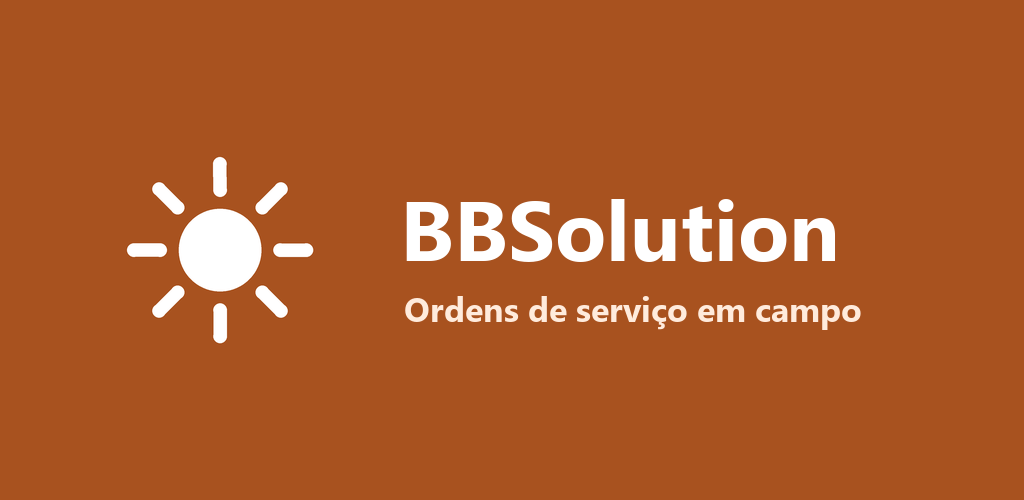
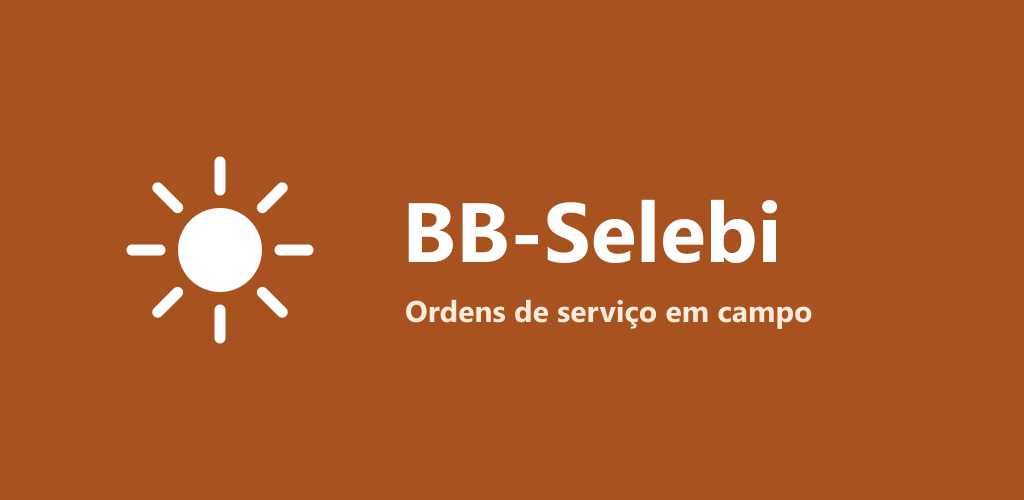
sss

diff --git a/app/src/test/java/br/com/selebi/app/funcionalidade/execucao/RoteiroTest.kt b/app/src/test/java/br/com/selebi/app/funcionalidade/execucao/RoteiroTest.kt
@@ -93,12 +93,12 @@ class RoteiroTest {
         fun resumo(envios: List<Envio>, online: Boolean, espera: EsperaEnvio?, fechado: Boolean) =
             Roteiro.resumoDaFila(envios, online, espera, fechado)
 
-        assertEquals("Tudo o que você fez nesta OS já está no BBSolution.", resumo(emptyList(), true, null, true))
+        assertEquals("Tudo o que você fez nesta OS já está no BB-Selebi.", resumo(emptyList(), true, null, true))
         assertTrue(resumo(listOf(envio("recusado")), true, null, true).startsWith("O servidor recusou"))
 
         // Sem sinal: no Android sobe com o app fechado; no iPhone só com ele aberto.
         assertTrue(resumo(listOf(envio()), false, null, true).endsWith("mesmo com o app fechado."))
-        assertTrue(resumo(listOf(envio()), false, null, false).endsWith("Abra o BBSolution quando tiver sinal."))
+        assertTrue(resumo(listOf(envio()), false, null, false).endsWith("Abra o BB-Selebi quando tiver sinal."))
         assertFalse(resumo(listOf(envio()), false, null, false).contains("app fechado"))
 
         // Internet ligada e fila parada: o servidor, com o número do erro.
@@ -107,11 +107,11 @@ class RoteiroTest {
             "O servidor está com problema (erro 500). Está tudo guardado aqui e o app tenta de novo sozinho.",
             resumo(listOf(envio()), true, servidor, true),
         )
-        assertTrue(resumo(listOf(envio()), true, servidor, false).endsWith("Deixe o BBSolution aberto."))
+        assertTrue(resumo(listOf(envio()), true, servidor, false).endsWith("Deixe o BB-Selebi aberto."))
         assertTrue(resumo(listOf(envio()), true, EsperaEnvio(MotivoEspera.SERVIDOR), true).startsWith("O servidor está com problema."))
 
         assertTrue(resumo(listOf(envio()), true, EsperaEnvio(MotivoEspera.SEM_SINAL), true).startsWith("O sinal está fraco"))
-        assertTrue(resumo(listOf(envio()), true, EsperaEnvio(MotivoEspera.APP_DESATUALIZADO, 426), true).startsWith("Esta versão do BBSolution está desatualizada"))
+        assertTrue(resumo(listOf(envio()), true, EsperaEnvio(MotivoEspera.APP_DESATUALIZADO, 426), true).startsWith("Esta versão do BB-Selebi está desatualizada"))
 
         // Subindo agora, sem espera.
         assertTrue(resumo(listOf(envio()), true, null, true).startsWith("Subindo."))

diff --git a/shared/src/commonMain/kotlin/br/com/selebi/app/funcionalidade/execucao/Roteiro.kt b/shared/src/commonMain/kotlin/br/com/selebi/app/funcionalidade/execucao/Roteiro.kt
@@ -117,23 +117,23 @@ object Roteiro {
     fun resumoDaFila(envios: List<Envio>, online: Boolean, espera: EsperaEnvio?, sobeComAppFechado: Boolean): String {
         val esperando = envios.count { !it.recusado }
         val guardado = "Está tudo guardado aqui"
-        val sozinho = if (sobeComAppFechado) "" else " Deixe o BBSolution aberto."
+        val sozinho = if (sobeComAppFechado) "" else " Deixe o BB-Selebi aberto."
         return when {
-            envios.isEmpty() -> "Tudo o que você fez nesta OS já está no BBSolution."
+            envios.isEmpty() -> "Tudo o que você fez nesta OS já está no BB-Selebi."
             esperando == 0 -> "O servidor recusou o que está abaixo. Veja o motivo e descarte."
             !online -> if (sobeComAppFechado) {
                 "Sem sinal agora. $guardado e sobe sozinho quando a conexão voltar — mesmo com o app fechado."
             } else {
-                "Sem sinal agora. $guardado e sobe quando a conexão voltar. Abra o BBSolution quando tiver sinal."
+                "Sem sinal agora. $guardado e sobe quando a conexão voltar. Abra o BB-Selebi quando tiver sinal."
             }
             espera?.motivo == MotivoEspera.APP_DESATUALIZADO ->
-                "Esta versão do BBSolution está desatualizada. Atualize o aplicativo na loja: $guardado e sobe depois da atualização."
+                "Esta versão do BB-Selebi está desatualizada. Atualize o aplicativo na loja: $guardado e sobe depois da atualização."
             espera?.motivo == MotivoEspera.SERVIDOR ->
                 "O servidor está com problema" + (espera.codigo?.let { " (erro $it)" } ?: "") +
                     ". $guardado e o app tenta de novo sozinho.$sozinho"
             espera?.motivo == MotivoEspera.SEM_SINAL ->
                 "O sinal está fraco e o envio não completou. $guardado e o app tenta de novo sozinho.$sozinho"
-            else -> if (sobeComAppFechado) "Subindo. Não precisa esperar com o app aberto." else "Subindo. Deixe o BBSolution aberto até terminar."
+            else -> if (sobeComAppFechado) "Subindo. Não precisa esperar com o app aberto." else "Subindo. Deixe o BB-Selebi aberto até terminar."
         }
     }
 

diff --git a/shared/src/commonMain/kotlin/br/com/selebi/app/funcionalidade/execucao/Fotos.kt b/shared/src/commonMain/kotlin/br/com/selebi/app/funcionalidade/execucao/Fotos.kt
@@ -266,7 +266,7 @@ fun VisorDeFoto(
                     ) {
                         Icon(Icons.Outlined.Videocam, contentDescription = null, modifier = Modifier.size(64.dp))
                         Text(
-                            "Vídeo gravado. Para assistir, abra a OS no site do BBSolution.",
+                            "Vídeo gravado. Para assistir, abra a OS no site do BB-Selebi.",
                             style = MaterialTheme.typography.bodyLarge,
                             textAlign = TextAlign.Center,
                             modifier = Modifier.padding(top = 12.dp),
@@ -293,7 +293,7 @@ fun VisorDeFoto(
                             style = MaterialTheme.typography.titleSmall,
                         )
                         Text(
-                            if (foto.pendente) "Só neste celular — sobe quando tiver sinal" else "Já está no BBSolution",
+                            if (foto.pendente) "Só neste celular — sobe quando tiver sinal" else "Já está no BB-Selebi",
                             style = MaterialTheme.typography.bodySmall,
                             color = Color.White.copy(alpha = 0.8f),
                         )

diff --git a/shared/src/commonMain/kotlin/br/com/selebi/app/funcionalidade/execucao/Passos.kt b/shared/src/commonMain/kotlin/br/com/selebi/app/funcionalidade/execucao/Passos.kt
@@ -758,11 +758,11 @@ fun ConteudoConcluida(estado: ExecucaoEstado, acoes: AcoesExecucao) {
                 TipoAviso.ERRO,
             )
             esperando > 0 -> Aviso(
-                if (estado.online) "Subindo para o BBSolution — pode guardar o celular." else "Está tudo guardado no celular e sobe sozinho quando o sinal voltar, mesmo com o app fechado.",
+                if (estado.online) "Subindo para o BB-Selebi — pode guardar o celular." else "Está tudo guardado no celular e sobe sozinho quando o sinal voltar, mesmo com o app fechado.",
                 TipoAviso.INFO,
                 titulo = if (estado.online) "Enviando" else "Sem sinal",
             )
-            else -> Aviso("Tudo enviado. O escritório já vê a OS concluída no site.", TipoAviso.INFO, titulo = "No BBSolution")
+            else -> Aviso("Tudo enviado. O escritório já vê a OS concluída no site.", TipoAviso.INFO, titulo = "No BB-Selebi")
         }
         estado.avisos.forEach { aviso ->
             Surface(color = c.sucessoFundo, contentColor = c.sobreSucesso, shape = MaterialTheme.shapes.medium, modifier = Modifier.fillMaxWidth()) {

diff --git a/shared/src/commonMain/kotlin/br/com/selebi/app/amostras/AmostrasExecucao.kt b/shared/src/commonMain/kotlin/br/com/selebi/app/amostras/AmostrasExecucao.kt
@@ -287,7 +287,7 @@ object AmostrasExecucao {
         anexos = listOf(foto("c1", "i1", 60 * 30), foto("c2", "i4", 60 * 26), foto("c9", null, 60 * 24, categoria = "assinatura")),
         relatorio = "/r/exemploDeLinkDoRelatorio0000000000",
         historico = listOf(
-            evento("h4", "esteira", "Projeto avançou na esteira", "para \"Documentação\"", "BBSolution", "sistema", agora.minusDays(1).withHour(16).withMinute(10)),
+            evento("h4", "esteira", "Projeto avançou na esteira", "para \"Documentação\"", "BB-Selebi", "sistema", agora.minusDays(1).withHour(16).withMinute(10)),
             evento("h3", "concluida", "Concluída", "Resolvido", "Diego Andrade", "app", agora.minusDays(1).withHour(16).withMinute(10)),
             evento("h2", "iniciada", "Atendimento iniciado", null, "Diego Andrade", "app", agora.minusDays(1).withHour(8).withMinute(12)),
             evento("h1", "deslocamento", "Saiu para o local", null, "Diego Andrade", "app", agora.minusDays(1).withHour(7).withMinute(30)),

diff --git a/shared/src/commonMain/kotlin/br/com/selebi/app/funcionalidade/acesso/CadastroTela.kt b/shared/src/commonMain/kotlin/br/com/selebi/app/funcionalidade/acesso/CadastroTela.kt
@@ -196,7 +196,7 @@ fun CadastroConteudo(
             rotulo = "E-mail (opcional)",
             icone = Icons.Outlined.Email,
             erro = estado.erros["email"],
-            dica = "Só se você também for usar o BBSolution pelo computador.",
+            dica = "Só se você também for usar o BB-Selebi pelo computador.",
             teclado = KeyboardOptions(
                 keyboardType = KeyboardType.Email,
                 autoCorrectEnabled = false,
@@ -221,7 +221,7 @@ fun CadastroConteudo(
         BotaoPrincipal("Enviar cadastro", aoEnviar, carregando = estado.carregando)
         Spacer(Modifier.height(16.dp))
         Text(
-            "O seu CPF vira o seu login. Ele só é usado para você entrar no BBSolution da sua empresa.",
+            "O seu CPF vira o seu login. Ele só é usado para você entrar no BB-Selebi da sua empresa.",
             style = MaterialTheme.typography.bodySmall,
             color = MaterialTheme.colorScheme.onSurfaceVariant,
         )

diff --git a/app/src/main/java/br/com/selebi/app/nucleo/rastreio/ServicoRastreamento.kt b/app/src/main/java/br/com/selebi/app/nucleo/rastreio/ServicoRastreamento.kt
@@ -250,7 +250,7 @@ class ServicoRastreamento : Service() {
     private fun criarCanal() {
         if (Build.VERSION.SDK_INT < Build.VERSION_CODES.O) return
         val canal = NotificationChannel(CANAL, "Em campo", NotificationManager.IMPORTANCE_LOW).apply {
-            description = "Aparece enquanto o BBSolution mostra a sua posição ao escritório, entre o \"Estou a caminho\" e o fim da OS."
+            description = "Aparece enquanto o BB-Selebi mostra a sua posição ao escritório, entre o \"Estou a caminho\" e o fim da OS."
             setShowBadge(false)
         }
         getSystemService(NotificationManager::class.java)?.createNotificationChannel(canal)

diff --git a/shared/src/commonMain/kotlin/br/com/selebi/app/nucleo/modelo/Usuario.kt b/shared/src/commonMain/kotlin/br/com/selebi/app/nucleo/modelo/Usuario.kt
@@ -11,7 +11,7 @@ enum class Papel(val api: String, val rotulo: String, val descricao: String) {
     VENDEDOR("vendedor", "Vendedor", "Faz vistorias e vê as ordens de serviço atribuídas a ele."),
     ENGENHEIRO("engenheiro", "Engenheiro", "Vê todas as ordens de serviço da empresa."),
     ADM("adm", "Administrador", "Vê tudo e cuida da equipe: aprova cadastros e troca papéis."),
-    OUTRO("", "Outro", "Usa o BBSolution pelo navegador.");
+    OUTRO("", "Outro", "Usa o BB-Selebi pelo navegador.");
 
     companion object {
         fun daApi(valor: String): Papel = entries.firstOrNull { it.api == valor } ?: OUTRO

diff --git a/shared/src/commonMain/kotlin/br/com/selebi/app/funcionalidade/acesso/EmpresaTela.kt b/shared/src/commonMain/kotlin/br/com/selebi/app/funcionalidade/acesso/EmpresaTela.kt
@@ -109,7 +109,7 @@ fun EmpresaConteudo(
         Column(verticalArrangement = Arrangement.spacedBy(8.dp)) {
             Text("Qual é a sua empresa?", style = MaterialTheme.typography.headlineSmall)
             Text(
-                "Digite o código que a sua empresa recebeu para usar o BBSolution. É só na primeira vez.",
+                "Digite o código que a sua empresa recebeu para usar o BB-Selebi. É só na primeira vez.",
                 style = MaterialTheme.typography.bodyLarge,
                 color = MaterialTheme.colorScheme.onSurfaceVariant,
             )

diff --git a/shared/src/commonMain/kotlin/br/com/selebi/app/funcionalidade/acesso/LoginTela.kt b/shared/src/commonMain/kotlin/br/com/selebi/app/funcionalidade/acesso/LoginTela.kt
@@ -176,7 +176,7 @@ fun LoginConteudo(
         BotaoPrincipal("Entrar", aoEntrar, carregando = estado.carregando, habilitado = estado.podeEntrar)
         Spacer(Modifier.height(28.dp))
         Text(
-            "Primeira vez no BBSolution?",
+            "Primeira vez no BB-Selebi?",
             style = MaterialTheme.typography.bodyMedium,
             color = MaterialTheme.colorScheme.onSurfaceVariant,
             modifier = Modifier.align(Alignment.CenterHorizontally),

diff --git a/shared/src/commonMain/kotlin/br/com/selebi/app/nucleo/design/componentes/Marca.kt b/shared/src/commonMain/kotlin/br/com/selebi/app/nucleo/design/componentes/Marca.kt
@@ -66,7 +66,7 @@ fun MarcaSelebi(modifier: Modifier = Modifier, tamanho: Dp = 44.dp) {
     Row(modifier, verticalAlignment = Alignment.CenterVertically, horizontalArrangement = Arrangement.spacedBy(12.dp)) {
         SeloSelebi(tamanho)
         Text(
-            "BBSolution",
+            "BB-Selebi",
             style = MaterialTheme.typography.headlineMedium.copy(
                 fontWeight = FontWeight.Bold,
                 letterSpacing = (-0.5).sp,

diff --git a/shared/src/commonMain/kotlin/br/com/selebi/app/funcionalidade/perfil/PerfilTela.kt b/shared/src/commonMain/kotlin/br/com/selebi/app/funcionalidade/perfil/PerfilTela.kt
@@ -179,7 +179,7 @@ fun PerfilConteudo(
                 )
             }
             Text(
-                "BBSolution para $nomeDoSistema · versão ${Ambiente.versaoCompleta}",
+                "BB-Selebi para $nomeDoSistema · versão ${Ambiente.versaoCompleta}",
                 style = MaterialTheme.typography.bodySmall,
                 color = MaterialTheme.colorScheme.onSurfaceVariant,
                 textAlign = TextAlign.Center,
